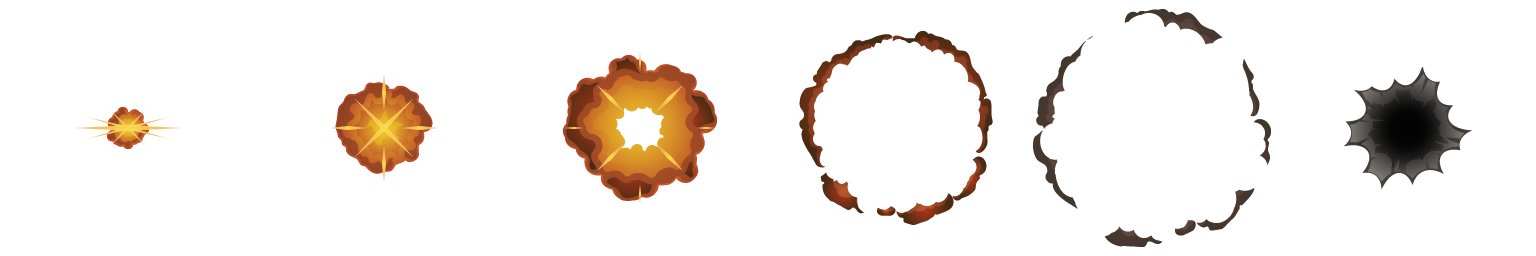
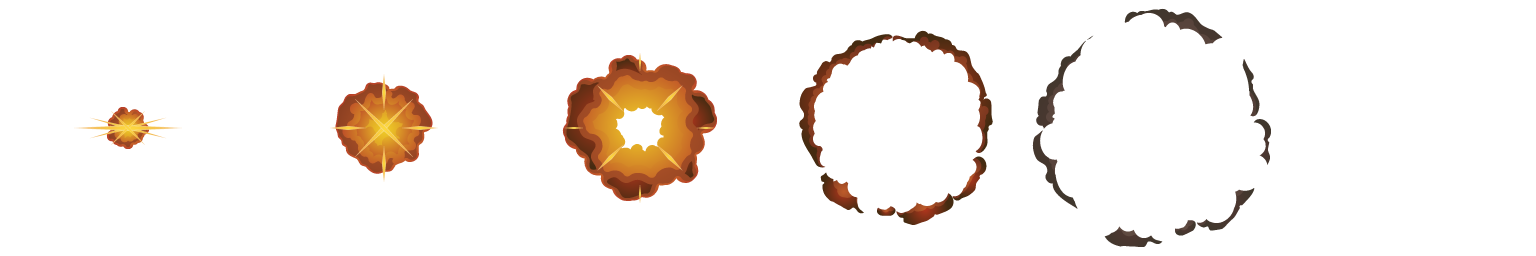
demo va trạm & bắn đạn

Changed region(s): [[0.875, 0.2812, 0.9688, 0.7188]]

diff --git a/src/game/scenes/Game.ts b/src/game/scenes/Game.ts
@@ -1,7 +1,6 @@
 import { Scene, Math as pMath, Cameras, GameObjects, Physics } from 'phaser';
 import { EventBus } from '../EventBus';
-import { config } from 'process';
-import { log } from 'console';
+import internal from 'stream';
 
 export class Game extends Scene
 {
@@ -11,15 +10,22 @@ export class Game extends Scene
     gamePartW:number;
     gamePartH:number;
 
+    players:Array<any> =[];
     player:any;
     pX:number;
     pY:number;
     isMove:boolean;
-    fishes:Array<any> = [];
+    staticObjects:Array<any> = [];
     shells:Array<any> = [];
+    autosetInterval:any
 
+    staticNames = ["cont1","cont2","cont3","cont4"];
+
+    // game layers
     decorContainer:GameObjects.Container;
+    staticContainer:GameObjects.Container;
     playerContainer:GameObjects.Container;
+    aminsContainer:GameObjects.Container;
 
     constructor ()
     {
@@ -39,9 +45,15 @@ export class Game extends Scene
 
         this.load.image('shell1', 'Medium_Shell.png');
 
+        // static object
+        this.load.image('cont1', 'Container_A.png');
+        this.load.image('cont2', 'Container_B.png');
+        this.load.image('cont3', 'Container_C.png');
+        this.load.image('cont4', 'Container_D.png');
+
         this.load.spritesheet('tank1', 'Tank_01_Sheets.png', { frameWidth: 256, frameHeight: 256 });
         this.load.spritesheet('tank1_tr2', 'Tank_01_TR2_Sheets.png', { frameWidth: 256, frameHeight: 256 });
-        //this.load.spritesheet('bomb1', 'bomb_01.png', { frameWidth: 256, frameHeight: 256 });
+        this.load.spritesheet('boom1', 'bomb_01.png', { frameWidth: 256, frameHeight: 256 });
         this.load.spritesheet('explosion1', 'explosion_01.png', { frameWidth: 256, frameHeight: 256 });
     }
 
@@ -55,20 +67,46 @@ export class Game extends Scene
             .setOrigin(0, 0);
 
         this.decorContainer = this.add.container();
+        this.staticContainer = this.add.container();
         this.playerContainer = this.add.container();
+        this.aminsContainer = this.add.container();
 
         this.onKeyboardControl();
         this.zCamera = this.cameras.main
             .setSize((this.game.config.width as number), (this.game.config.height as number))
             .setZoom(this.zCamZoom);
-
-        // (window as any).zCam = this.zCamera;
-        // (window as any).pler = this.player;
+        
 
         this.addPlayer();
-        this.addFishes(2);
+        this.addMPlayers(5);
+        this.addStaticSolid(5);
+
+        // world inpact
+        this.matter.world.on('collisionstart', (event:any)=>{
+            //console.log(event);
+            //let { bodies} = event.source.detector;
+            if(event.pairs[0].bodyA.gameObject.name === "shell"){
+                this.children.remove(event.pairs[0].bodyA.gameObject);
+                this.matter.world.remove(event.pairs[0].bodyA);
+            }
+            if(event.pairs[0].bodyB.gameObject.name === "shell"){
+                this.children.remove(event.pairs[0].bodyB.gameObject);
+                this.matter.world.remove(event.pairs[0].bodyB);
+            }
+        });
+
+        this.matter.world.on('collisionend', (event:any)=>{
+            if(event.pairs[0].bodyA.gameObject.name === "shell"){
+                this.addBoom(event.pairs[0].bodyB.position.x, event.pairs[0].bodyB.position.y);
+            }   
+            if(event.pairs[0].bodyB.gameObject.name === "shell"){
+                this.addBoom(event.pairs[0].bodyB.position.x, event.pairs[0].bodyB.position.y);
+            }
+        });
 
         
+        (window as any).zCam = this.zCamera;
+        (window as any).pler = this.player;
 
         EventBus.emit('current-scene-ready', this);
     }
@@ -89,8 +127,8 @@ export class Game extends Scene
             this.player.y += Math.cos(this.player.direction) * this.player.speed;
             this.updateMainCameraFollow(this.player);
         }
-
         
+        this.otherAutoPlay(time);
         this.updateShells(time);
     }
 
@@ -111,6 +149,8 @@ export class Game extends Scene
             this.pY = pt?.worldY??0;
             
             this.player.direction = Math.atan2(this.pX-this.player.x, this.pY - this.player.y);
+            
+            
         });
 
         this.input.keyboard?.on('keydown-W',()=>{
@@ -119,6 +159,7 @@ export class Game extends Scene
                 this.player.play('anim_run1');
                 this.isMove = true;
             }
+            
         });
         this.input.keyboard?.on('keydown-S',()=>{
             this.player.direction = Math.atan2(0, (this.game.config.height as number) - (this.player.y as number));
@@ -126,6 +167,7 @@ export class Game extends Scene
                 this.player.play('anim_run1');
                 this.isMove = true;
             }
+            
         });
         this.input.keyboard?.on('keydown-A',()=>{
             this.player.direction = Math.atan2(0 - this.player.x, 0);
@@ -133,6 +175,7 @@ export class Game extends Scene
                 this.player.play('anim_run1');
                 this.isMove = true;
             }
+            
         });
         this.input.keyboard?.on('keydown-D',()=>{
             this.player.direction = Math.atan2((this.game.config.width as number) - (this.player.x as number), 0);
@@ -140,6 +183,7 @@ export class Game extends Scene
                 this.player.play('anim_run1');
                 this.isMove = true;
             }
+            
         });
 
         this.input.keyboard?.on('keydown-SPACE',()=>{
@@ -148,8 +192,6 @@ export class Game extends Scene
         });
 
         this.input.keyboard?.on('keyup',(event:any)=>{
-            console.log(event);
-            
 
             if(
                 event.code=='KeyW' ||
@@ -176,31 +218,35 @@ export class Game extends Scene
 
         this.anims.create({
             key: 'anim_explosion1',
-            frames: this.anims.generateFrameNumbers('explosion1', { start: 0, end: 9}),
+            frames: this.anims.generateFrameNumbers('explosion1', { start: 0, end: 8}),
+            frameRate: 15,
+            repeat: 0
+        });
+        this.anims.create({
+            key: 'anim_boom1',
+            frames: this.anims.generateFrameNumbers('boom1', { start: 0, end: 5}),
             frameRate: 15,
             repeat: 0
         });
     }
 
-    addFishes(num:integer){
+    addStaticSolid(num:integer){
         for(let i=0; i < num; i++){
+
+            var sptName = this.staticNames[Math.ceil(Math.random()*this.staticNames.length)]
 
             const x = Math.random()*(this.game.config.width as number);
             const y = Math.random()*(this.game.config.height as number);
 
-            const fish = new Physics.Matter.Sprite(this.matter.world, x, y, "fish1")
-                .setScale(.2)
+            const cont = new Physics.Matter.Sprite(this.matter.world, x, y, sptName)
+                .setScale(.3)
                 .setStatic(true);
-            fish.preFX?.addShadow();
 
-            this.fishes.push(fish);
-            this.playerContainer.add(fish);
-        }
-    }
-    updateFishes(time:number){
-        for (let index = 0; index < this.fishes.length; index++) {
-            const fish = this.fishes[index];
+            cont.preFX?.addShadow();
 
+            this.staticObjects.push(cont);
+            this.staticContainer.add(cont);
+            
         }
     }
 
@@ -208,23 +254,83 @@ export class Game extends Scene
 
         this.player = new Physics.Matter.Sprite(this.matter.world, (this.game.config.width as number)/2,(this.game.config.height as number)/2, 'tank1_tr2');
         
-        this.player.setScale(.2);
+        this.player.setScale(.15);
         this.player.setFlip(false, true);
 
         this.player.preFX.addShadow();
 
         this.player.direction = 0;
-        this.player.speed = 2;
-        this.player.angle = 30;
+        this.player.speed = 1;
+        this.player.name = "myTank"
 
         this.playerContainer.add(this.player);
+    }
+
+    addMPlayers(num:integer){
+        for (let index = 0; index < num; index++) {
+            const x = Math.random()*(this.game.config.width as number);
+            const y = Math.random()*(this.game.config.height as number);
+            const mPlayer : any = new Physics.Matter.Sprite(this.matter.world, x, y, 'tank1');
+
+            mPlayer.setScale(.15);
+            mPlayer.setFlip(false, true);
+
+            mPlayer.preFX.addShadow();
+
+            mPlayer.direction = 0;
+            mPlayer.speed = 1;
+            mPlayer.name = "otherTank";
+
+            this.playerContainer.add(mPlayer);
+            this.players.push(mPlayer);
+        }
+
+        this.autosetInterval = setInterval(()=>{
+            for (let index = 0; index < this.players.length; index++) {
+                const mPlayer = this.players[index];
+                mPlayer.direction = Math.PI* Math.random();
+            }
+        },2000);
+    }
+    otherAutoPlay(time:number){
+        for (let index = 0; index < this.players.length; index++) {
+            const mPlayer = this.players[index];
+
+            mPlayer.rotation = pMath.Angle.RotateTo(mPlayer.rotation, - mPlayer.direction, 0.05);
+        }
     }
 
     addShell(player:any){
         if(!this.rotaDone(player)) return;
 
-        const shell:any = this.add.sprite((player.x as number), (player.y as number), 'shell1')
+        var x = 0;
+        var y = 0;
+        var margin = 40;
+        
+        if(player.direction == 0)//s
+        {
+            x = player.x;
+            y = player.y+margin;
+        }
+        if(Math.round(player.direction) == -2)//a
+        {
+            x = player.x-margin;
+            y = player.y;
+        }
+        if(Math.round(player.direction) == 3)//w
+        {
+            x = player.x;
+            y = player.y-margin;
+        }
+        if(Math.round(player.direction) == 2)//d
+        {
+            x = player.x+margin;
+            y = player.y;
+        }
+
+        const shell:any = this.matter.add.sprite(x, y, 'shell1')
             .setScale(.5)
+            .setCircle(10)
             .setFlip(false, true);
 
         shell.direction = player.direction;
@@ -232,6 +338,7 @@ export class Game extends Scene
         shell.rotation = - shell.direction;
         shell.startX = shell.x;
         shell.startY = shell.y;
+        shell.name="shell";
 
         this.shells.push(shell);
     }
@@ -242,6 +349,7 @@ export class Game extends Scene
             if(this.getDist(shell)>200)
             {
                 this.children.remove(shell);
+                this.matter.world.remove(shell.body);
                 //this.addExplosion(shell.x, shell.y);
             }
             else
@@ -254,9 +362,18 @@ export class Game extends Scene
     }
 
     addExplosion(x:number, y:number){
-        this.decorContainer.add(new GameObjects.Sprite(this, x, y, "explosion1")
-            .setScale(.2)
-            .play('anim_explosion1'));
+        this.decorContainer.add(
+            new GameObjects.Sprite(this, x, y, "explosion1")
+                .setScale(.2)
+                .play('anim_explosion1')
+        );
+    }
+    addBoom(x:number, y:number){
+        this.aminsContainer.add(
+            new GameObjects.Sprite(this, x, y, "boom1")
+                .setScale(.2)
+                .play('anim_boom1')
+        );
     }
 
     moveToDone(cPoint:any, toPoint:any){
